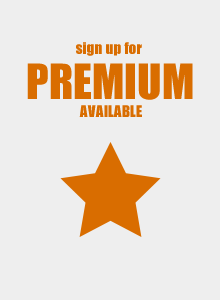
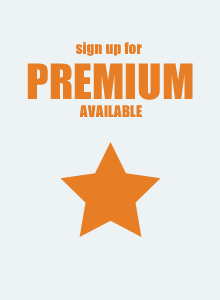
Added some colours

Changed region(s): [[0.1091, 0.21, 0.8727, 0.39], [0.2727, 0.48, 0.7364, 0.81], [0.3273, 0.12, 0.6545, 0.18]]

diff --git a/public/css/styles.css b/public/css/styles.css
@@ -28,6 +28,7 @@
 
 .pagination li.active {
 	width: 120px !important;
+	background-color: #088AB2;
 }
 
 .upload {
@@ -191,6 +192,9 @@ i.icon {
 	width: 220px;
 	display: inline-block;
 	margin-left: 2px;
+	background-color: #fff;
+	margin-top: 15px;
+	margin-bottom: 20px;
 }
 
 .business-cards-premium {
@@ -301,7 +305,7 @@ div.folded span:after {
 }
 
 nav {
-	background-color: #D96D00;
+	background-color: #6C7A89;
 }
 
 .categories {
@@ -309,3 +313,10 @@ nav {
 	left: -20px;
 }
 
+.premium-container {
+
+	background-color: #15C7FF;
+	width: 100%;
+	position: relative;
+	top: -40px;
+}

diff --git a/pages/homePage.php b/pages/homePage.php
@@ -35,8 +35,7 @@
 	<!-- Flash Messages -->
 	<?php include('partials/_flash.php'); ?>
 
-	<!-- Main Content -->
-	<div class="container main-content">
+	<div class="premium-container">
 
 		<div class="business-cards-premium">
 
@@ -67,6 +66,11 @@
 			?>
 
 		</div>
+
+	</div>
+	<!-- Main Content -->
+	<div class="container main-content">
+
 
 		<div class="row">
 
